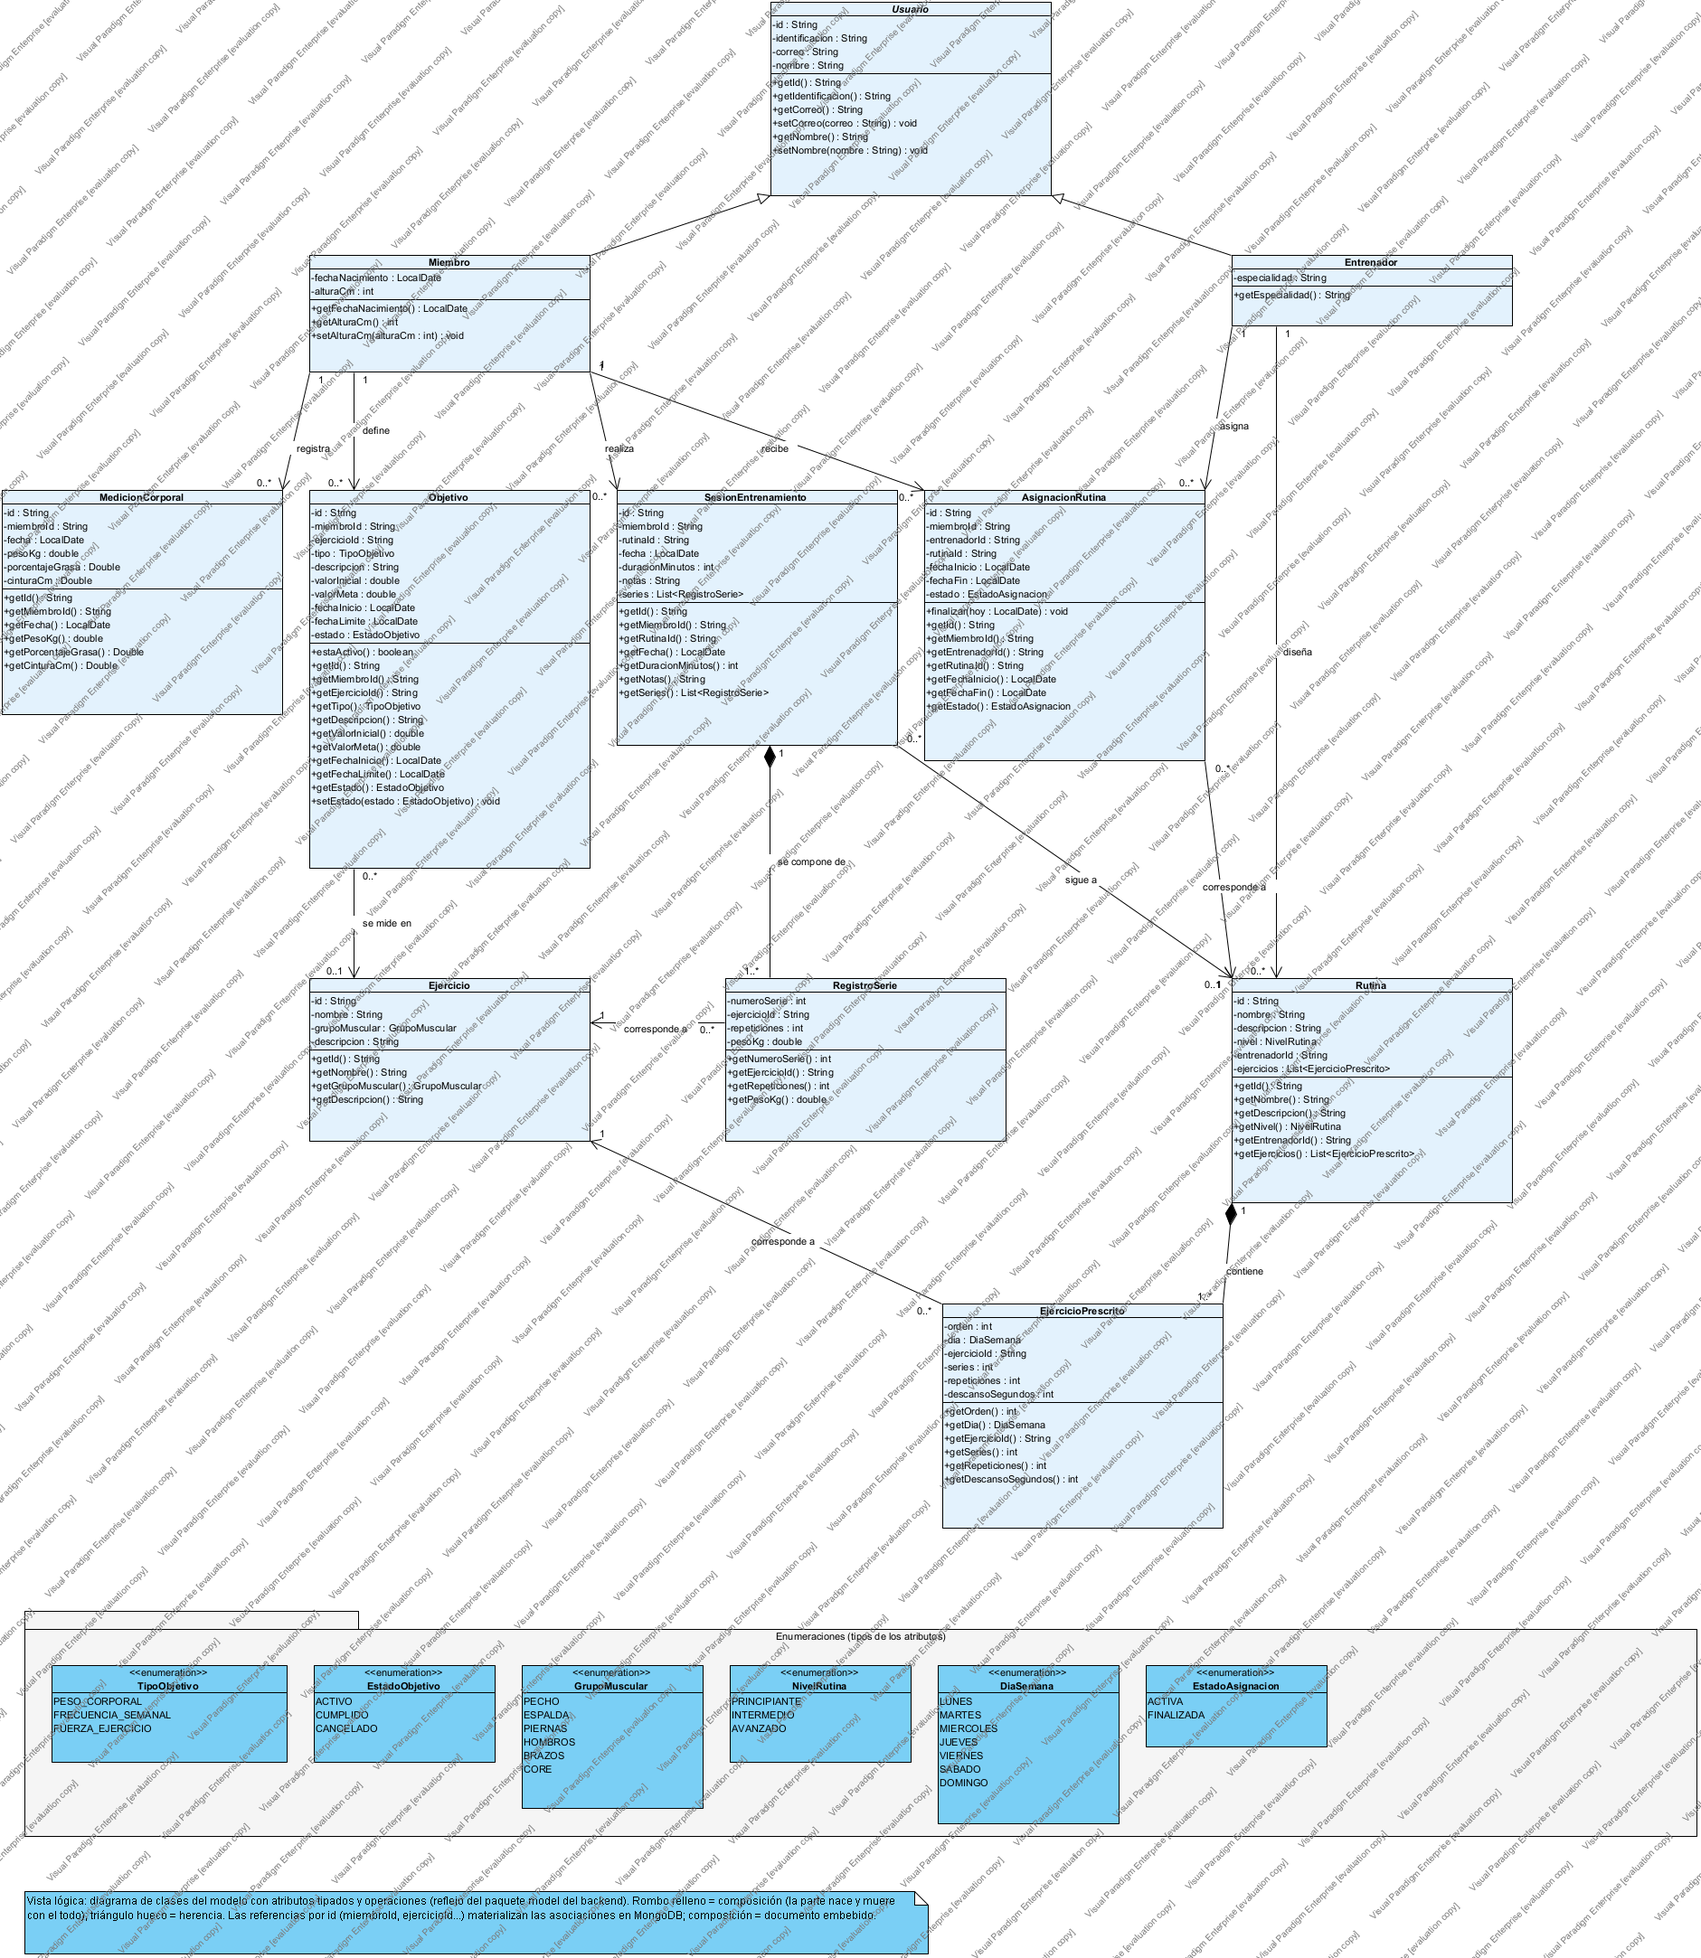
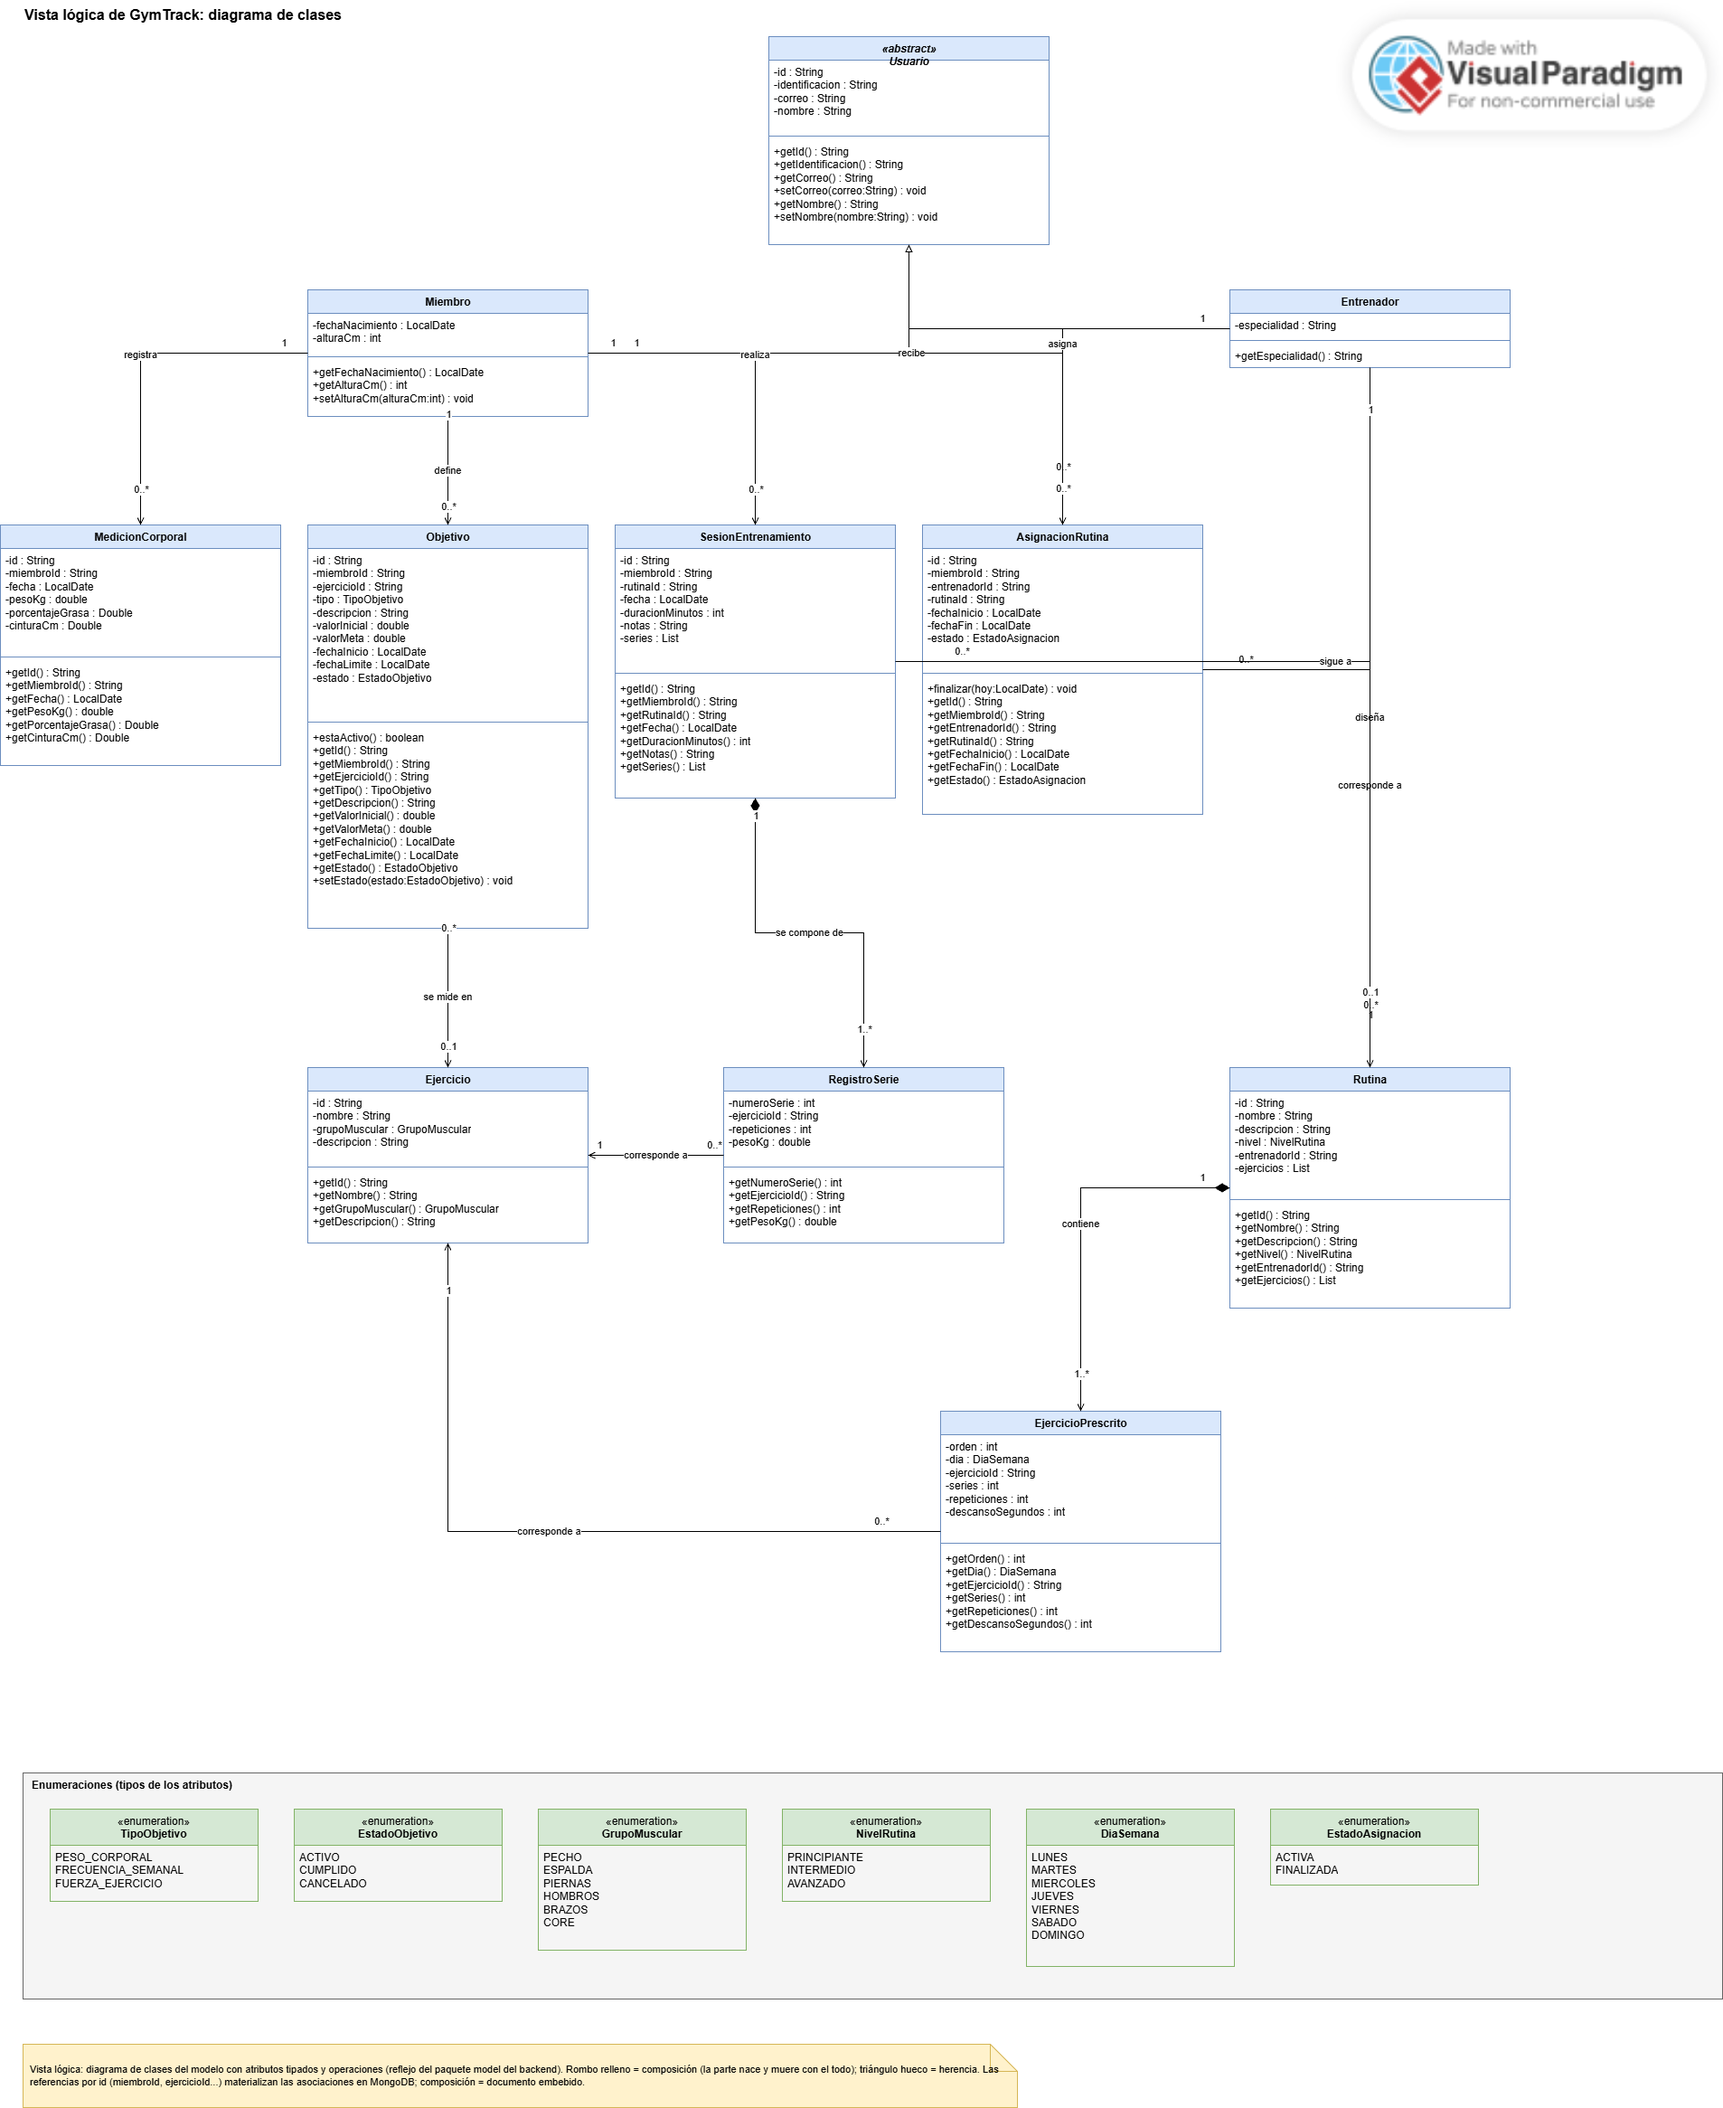
PNG de las seis vistas exportados desde Visual Paradigm Online
Reemplaza las imagenes del plugin por las de los diagramas editables
(contexto, funcional, logica, desarrollo, despliegue 5a y 5b).

diff --git a/docs/04-vistas-arquitectonicas.md b/docs/04-vistas-arquitectonicas.md
@@ -3,8 +3,8 @@
 Cinco vistas construidas en **Visual Paradigm** (`../diagramas/gymtrack.vpp`, 6 diagramas). Cada una responde una pregunta distinta,
 se verifica contra las reglas de `00-reglas-de-la-materia.md` y se relaciona con las demás por trazabilidad (HU → componente → clase → artefacto).
 
-> Las imágenes de `../diagramas/exportados/` llevan la marca de agua *evaluation copy* porque Visual Paradigm corre en modo evaluación
-> desde la línea de comandos. Para imágenes limpias, abre `gymtrack.vpp` con tu licencia y exporta (ver `../diagramas/README.md`).
+> Las imágenes de `../diagramas/exportados/` se exportaron desde **Visual Paradigm Online** (plan gratuito), por eso llevan la marca de agua
+> *Made with Visual Paradigm – for non-commercial use*. Los diagramas son editables en línea (ver `../diagramas/editables/`).
 
 | # | Vista | Diagrama UML | Archivo |
 |---|---|---|---|
